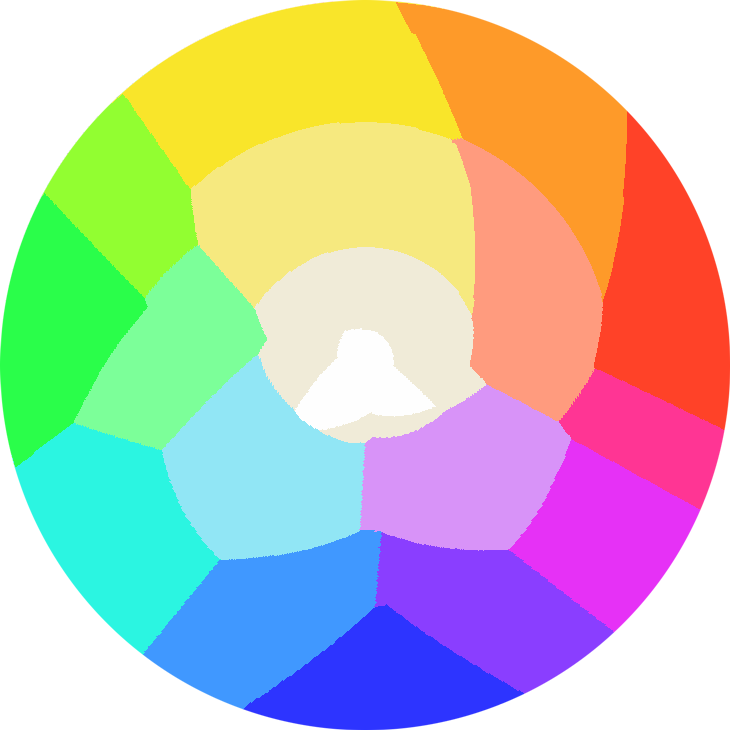
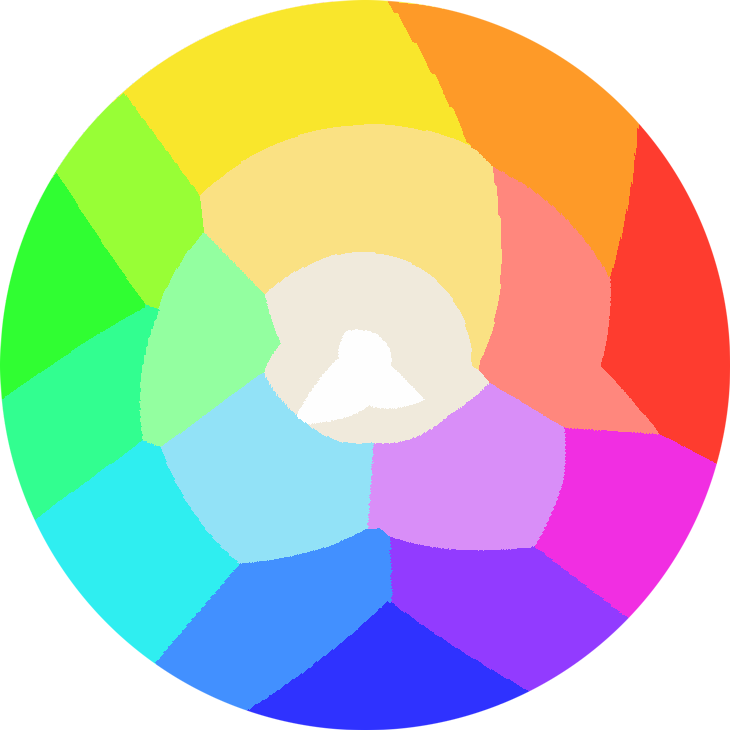
Added Hybrid Color choice
Manual choice of colors and automatic color choice now can be used at the same time

diff --git a/CC.py b/CC.py
@@ -10,13 +10,10 @@ pixels = img.load()
 brightness_scaler = 1
 
 colors = [
-    (255, 0, 0),
-    (0, 0, 0),
-    (255, 255, 0)
 ]
 
-use_auto_color_choice = False
-number_of_colors = 7
+use_auto_color_choice = True
+number_of_colors = 20
 # Modify only above this
 if use_auto_color_choice:
     pixel_array = []
@@ -44,7 +41,8 @@ if use_auto_color_choice:
     for i in range(len(centers)):
         tuple_centers.append(array3_to_tuple_int(centers[i]))
 
-    colors = tuple_centers
+    for i in range(len(tuple_centers)):
+        colors.append(tuple_centers[i])
 
 
 def dis(c1, c2):
@@ -73,4 +71,4 @@ for i in range(size[1]):
         pixels[j, i] = tempcolor if len(pixels[j, i]) == 3 else (
             tempcolor[0], tempcolor[1], tempcolor[2], pixels[j, i][3])
 
-img.save('CCExample.png')
+img.save('CCAutoExample.png')
